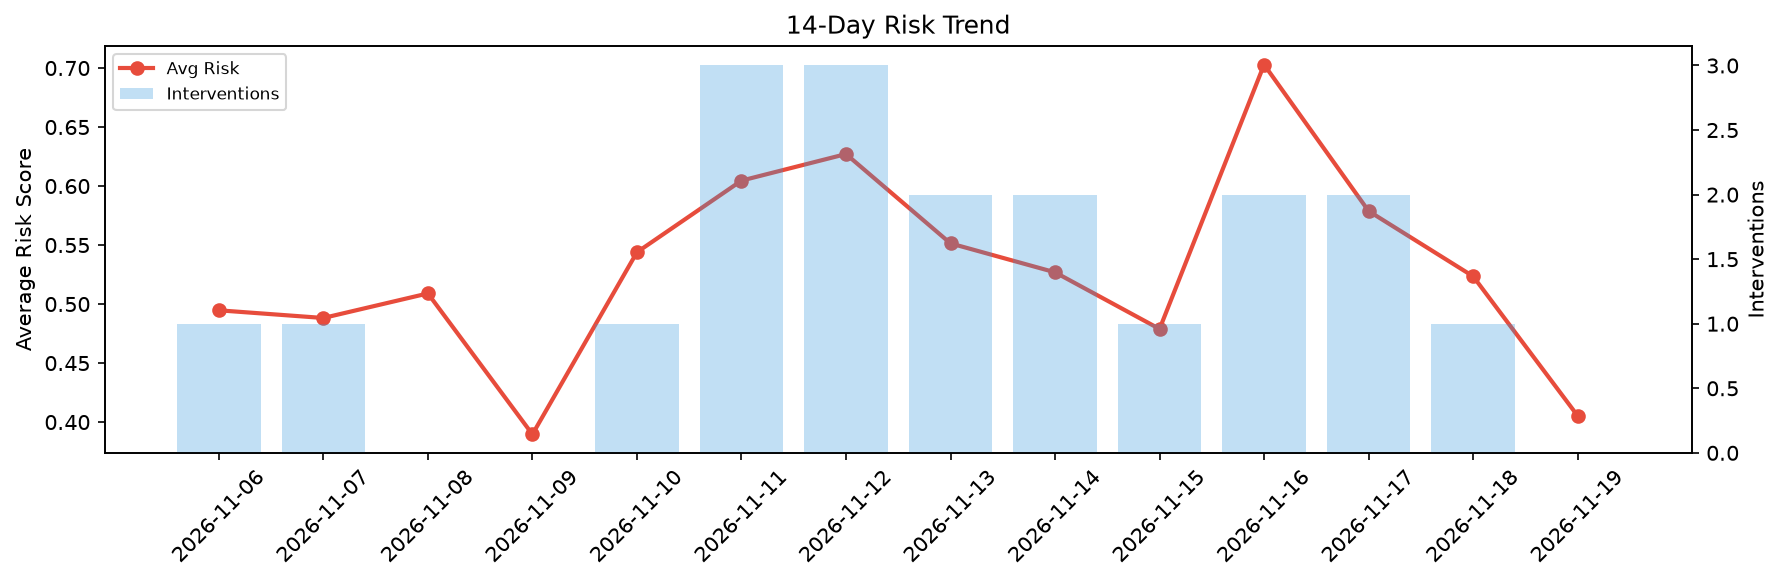
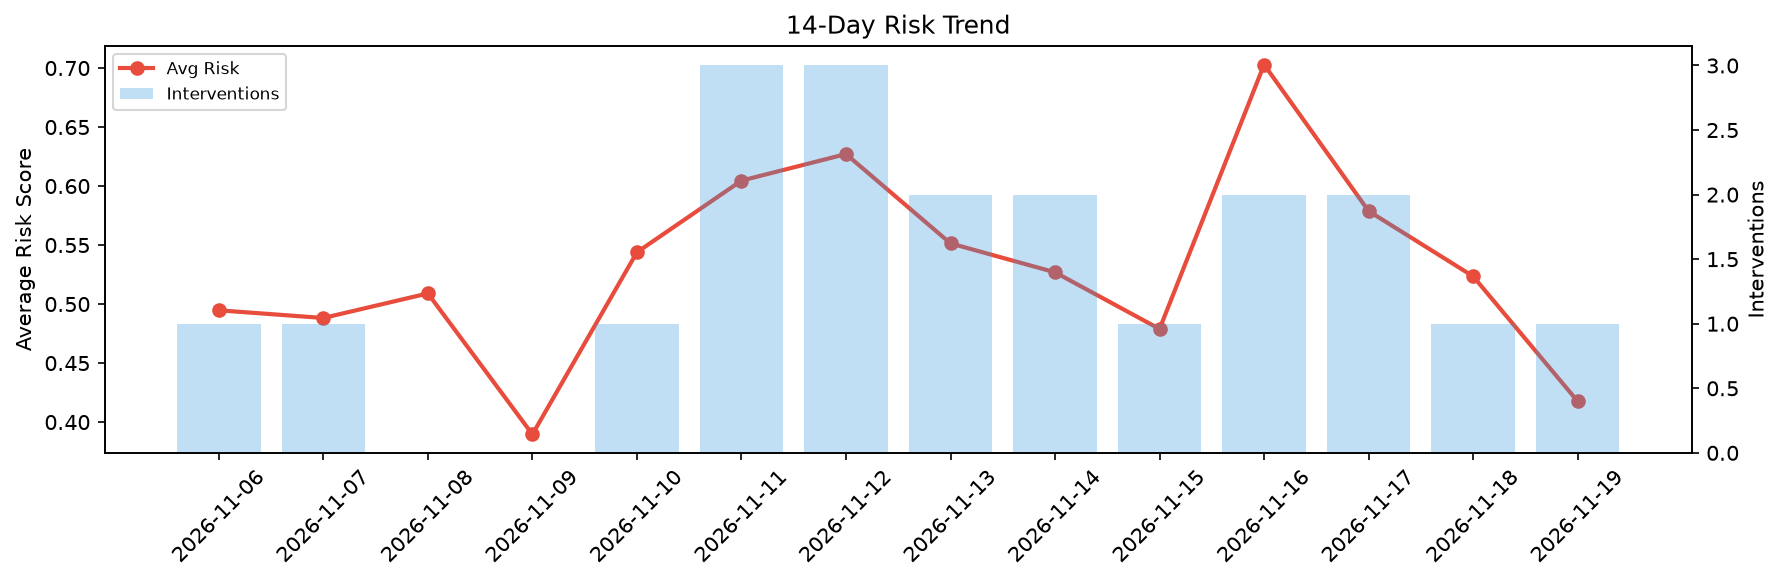
agent-improvement: daily cycle 2026-11-19T17:22

Changed region(s): [[0.8329, 0.5258, 0.9254, 0.8041]]

diff --git a/logs/2026-11-19.md b/logs/2026-11-19.md
@@ -1,6 +1,6 @@
 # Agent Improvement Report — 2026-11-19
 
-**Cycle ID:** `73b04ec5` | **Avg Risk:** 0.4053 | **Interventions:** 0/4
+**Cycle ID:** `c7a4056c` | **Avg Risk:** 0.4176 | **Interventions:** 1/4
 
 ![Dashboard](2026-11-19_dashboard.png)
 
@@ -10,18 +10,18 @@
 
 | Domain | Risk Score | Decision | Alerts |
 |--------|-----------|----------|--------|
-| code_review | 0.5938 | monitor | duplication, coverage |
-| incident_response | 0.2413 | monitor | none |
-| data_pipeline | 0.334 | monitor | none |
-| deployment | 0.4522 | monitor | canary_error |
+| code_review | 0.1855 | monitor | none |
+| incident_response | 0.3015 | monitor | none |
+| data_pipeline | 0.4878 | monitor | none |
+| deployment | 0.6955 | intervene | canary_error, latency_p99 |
 
 ## Delta vs Yesterday
 
 | Domain | Today | Yesterday | Change |
 |--------|-------|-----------|--------|
-| code_review | 0.5938 | 0.6794 | 📉 -12.6% |
-| incident_response | 0.2413 | 0.3681 | 📉 -34.4% |
-| data_pipeline | 0.334 | 0.559 | 📉 -40.3% |
-| deployment | 0.4522 | 0.4876 | 📉 -7.3% |
+| code_review | 0.1855 | 0.6794 | 📉 -72.7% |
+| incident_response | 0.3015 | 0.3681 | 📉 -18.1% |
+| data_pipeline | 0.4878 | 0.559 | 📉 -12.7% |
+| deployment | 0.6955 | 0.4876 | 📈 42.6% |
 
-**Refinement:** `{'adjustment': 'maintain', 'trend': 'improving', 'window': 4}`
+**Refinement:** `{'adjustment': 'tighten_thresholds', 'trend': 'degrading', 'window': 4}`
